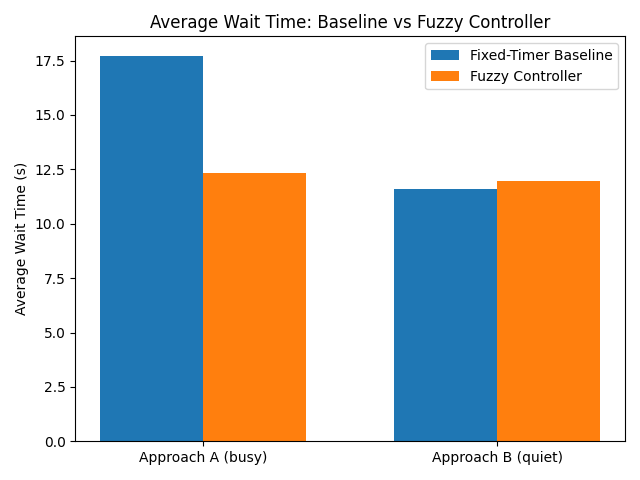
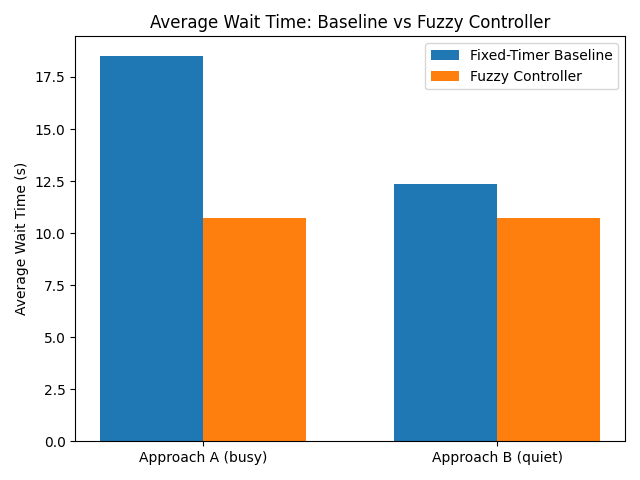
Phase 4: hill-climbing optimization of rule table, final results

diff --git a/simulation.py b/simulation.py
@@ -1,5 +1,6 @@
 import random
 from collections import deque
+from fuzzy_controller import fuzzy_decide_green_duration
 
 
 def generate_arrival_times(rate: float, total_duration: float) -> list[float]:
@@ -40,7 +41,6 @@ def run_baseline_simulation(rate_a: float, rate_b: float, total_duration: int, g
         'approach_a': generate_arrival_times(rate_a, total_duration),
         'approach_b': generate_arrival_times(rate_b, total_duration)
     }
-
     queues = {'approach_a': deque(), 'approach_b': deque()}
     arrival_indices = {'approach_a': 0, 'approach_b': 0}
     all_wait_times = {'approach_a': [], 'approach_b': []}
@@ -56,15 +56,13 @@ def run_baseline_simulation(rate_a: float, rate_b: float, total_duration: int, g
         departed_waits, discharge_counter = step(
             t, queues, arrival_schedules, arrival_indices, current_phase, discharge_counter
         )
-
         if departed_waits:
             all_wait_times[current_phase].extend(departed_waits)
 
     return all_wait_times
 
-from fuzzy_controller import fuzzy_decide_green_duration
 
-def run_fuzzy_simulation(rate_a: float, rate_b: float, total_duration: int):
+def run_fuzzy_simulation(rate_a: float, rate_b: float, total_duration: int, rule_table=None):
     arrival_schedules = {
         'approach_a': generate_arrival_times(rate_a, total_duration),
         'approach_b': generate_arrival_times(rate_b, total_duration)
@@ -78,7 +76,7 @@ def run_fuzzy_simulation(rate_a: float, rate_b: float, total_duration: int):
     discharge_counter = 0
     phase_start = 0
     current_green_duration = fuzzy_decide_green_duration(
-        len(queues[current_phase]), len(queues[other_phase])
+        len(queues[current_phase]), len(queues[other_phase]), rule_table
     )
 
     for t in range(total_duration):
@@ -87,7 +85,7 @@ def run_fuzzy_simulation(rate_a: float, rate_b: float, total_duration: int):
             discharge_counter = 0
             phase_start = t
             current_green_duration = fuzzy_decide_green_duration(
-                len(queues[current_phase]), len(queues[other_phase])
+                len(queues[current_phase]), len(queues[other_phase]), rule_table
             )
 
         departed_waits, discharge_counter = step(

diff --git a/optimize.py b/optimize.py
@@ -1,0 +1,43 @@
+import random
+from simulation import run_fuzzy_simulation
+from fuzzy_controller import RULE_TABLE, MIN_GREEN, MAX_GREEN
+
+
+def evaluate(rule_table, trials=5, rate_a=0.125, rate_b=0.067, total_duration=600):
+    """Average combined wait time (both approaches) over a few trials —
+    fewer than main.py's 20, to keep each evaluation fast during search."""
+    total = 0.0
+    for _ in range(trials):
+        results = run_fuzzy_simulation(rate_a, rate_b, total_duration, rule_table=rule_table)
+        a_wait = sum(results['approach_a']) / len(results['approach_a']) if results['approach_a'] else 0
+        b_wait = sum(results['approach_b']) / len(results['approach_b']) if results['approach_b'] else 0
+        total += (a_wait + b_wait)
+    return total / trials
+
+
+def hill_climb(iterations=30, step_size=4):
+    current_table = dict(RULE_TABLE)
+    current_score = evaluate(current_table)
+    print(f"Starting score (avg combined wait): {current_score:.2f}s")
+
+    for i in range(iterations):
+        candidate = dict(current_table)
+        key = random.choice(list(candidate.keys()))
+        delta = random.choice([-step_size, step_size])
+        candidate[key] = max(MIN_GREEN, min(MAX_GREEN, candidate[key] + delta))
+
+        candidate_score = evaluate(candidate)
+        if candidate_score < current_score:
+            current_table = candidate
+            current_score = candidate_score
+            print(f"Iteration {i+1}: improved to {current_score:.2f}s (changed {key} -> {candidate[key]})")
+
+    return current_table, current_score
+
+
+if __name__ == "__main__":
+    best_table, best_score = hill_climb()
+    print("\nBest rule table found:")
+    for k, v in best_table.items():
+        print(f"  {k}: {v}")
+    print(f"Final avg combined wait: {best_score:.2f}s")

diff --git a/fuzzy_controller.py b/fuzzy_controller.py
@@ -1,13 +1,13 @@
 from fuzzy_sets import queue_low, queue_medium, queue_high
 
 RULE_TABLE = {
-    ('high', 'low'): 45,
+    ('high', 'low'): 41,      # was 45
     ('high', 'medium'): 35,
     ('high', 'high'): 30,
     ('medium', 'low'): 30,
     ('medium', 'medium'): 25,
     ('medium', 'high'): 18,
-    ('low', 'low'): 15,
+    ('low', 'low'): 11,       # was 15
     ('low', 'medium'): 12,
     ('low', 'high'): 10,
 }
@@ -16,21 +16,22 @@ MIN_GREEN = 10
 MAX_GREEN = 45
 
 
-def fuzzy_decide_green_duration(own_queue: float, other_queue: float) -> float:
-    """Sugeno-style inference: weighted average of rule outputs, weighted
-    by how strongly each rule fires (AND = min of the two memberships)."""
+def fuzzy_decide_green_duration(own_queue: float, other_queue: float, rule_table=None) -> float:
+    if rule_table is None:
+        rule_table = RULE_TABLE
+
     own = {'low': queue_low(own_queue), 'medium': queue_medium(own_queue), 'high': queue_high(own_queue)}
     other = {'low': queue_low(other_queue), 'medium': queue_medium(other_queue), 'high': queue_high(other_queue)}
 
     weighted_sum = 0.0
     total_strength = 0.0
-    for (own_cat, other_cat), output_value in RULE_TABLE.items():
+    for (own_cat, other_cat), output_value in rule_table.items():
         strength = min(own[own_cat], other[other_cat])
         weighted_sum += strength * output_value
         total_strength += strength
 
     if total_strength == 0:
-        return 25.0  # shouldn't normally trigger — categories cover the full domain
+        return 25.0
 
     duration = weighted_sum / total_strength
     return max(MIN_GREEN, min(MAX_GREEN, duration))
